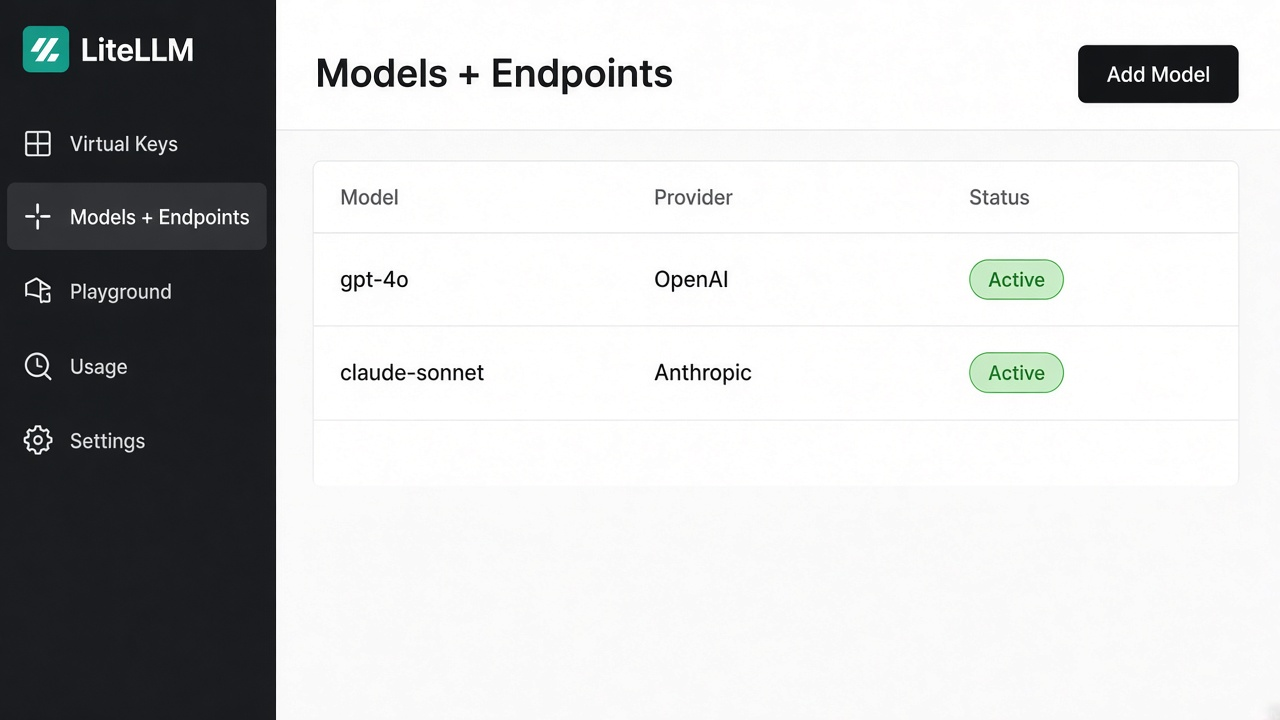
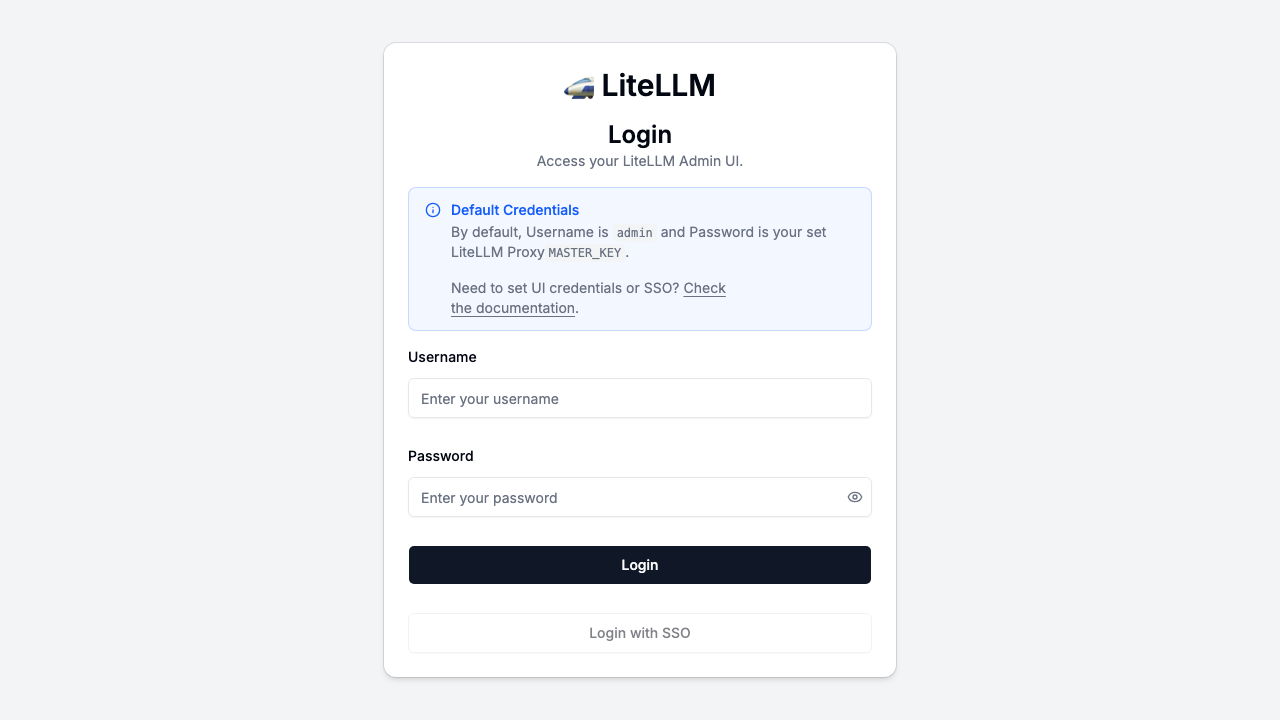
Add live Admin UI demo links and a real /ui screenshot.

diff --git a/README.md b/README.md
@@ -23,11 +23,16 @@ Deploy **LiteLLM**, the OpenAI-compatible LLM gateway, on Render with the offici
   <a href="https://docs.litellm.ai">
     <img src="https://img.shields.io/badge/Docs-docs.litellm.ai-0ea5e9" alt="Docs" />
   </a>
+  <a href="https://litellm-l9il.onrender.com/ui">
+    <img src="https://img.shields.io/badge/Demo-onrender.com-0ea5e9" alt="Live demo on Render" />
+  </a>
 </p>
 
 </div>
 
 ![LiteLLM Admin UI](./assets/hero.png)
+
+Live Admin UI: [litellm-l9il.onrender.com/ui](https://litellm-l9il.onrender.com/ui) (user `admin`, password is the master key). Chat playground against that proxy: [litellm-tester.onrender.com](https://litellm-tester.onrender.com).
 
 ## What This Template Shows
 

diff --git a/assets/README.md b/assets/README.md
@@ -2,5 +2,5 @@
 
 | File | Spec | Status |
 |------|------|--------|
-| `hero.png` | Prefer 1600×900 product screenshot | Generated Admin UI mockup. Replace with a live `/ui` screenshot before Sanity submit. |
+| `hero.png` | Prefer 1600×900 product screenshot | Live `/ui` login from `https://litellm-l9il.onrender.com/ui`. |
 | `logo.png` | Prefer 512×512 | Generated icon. Replace with BerriAI's official mark if they supply one. |
